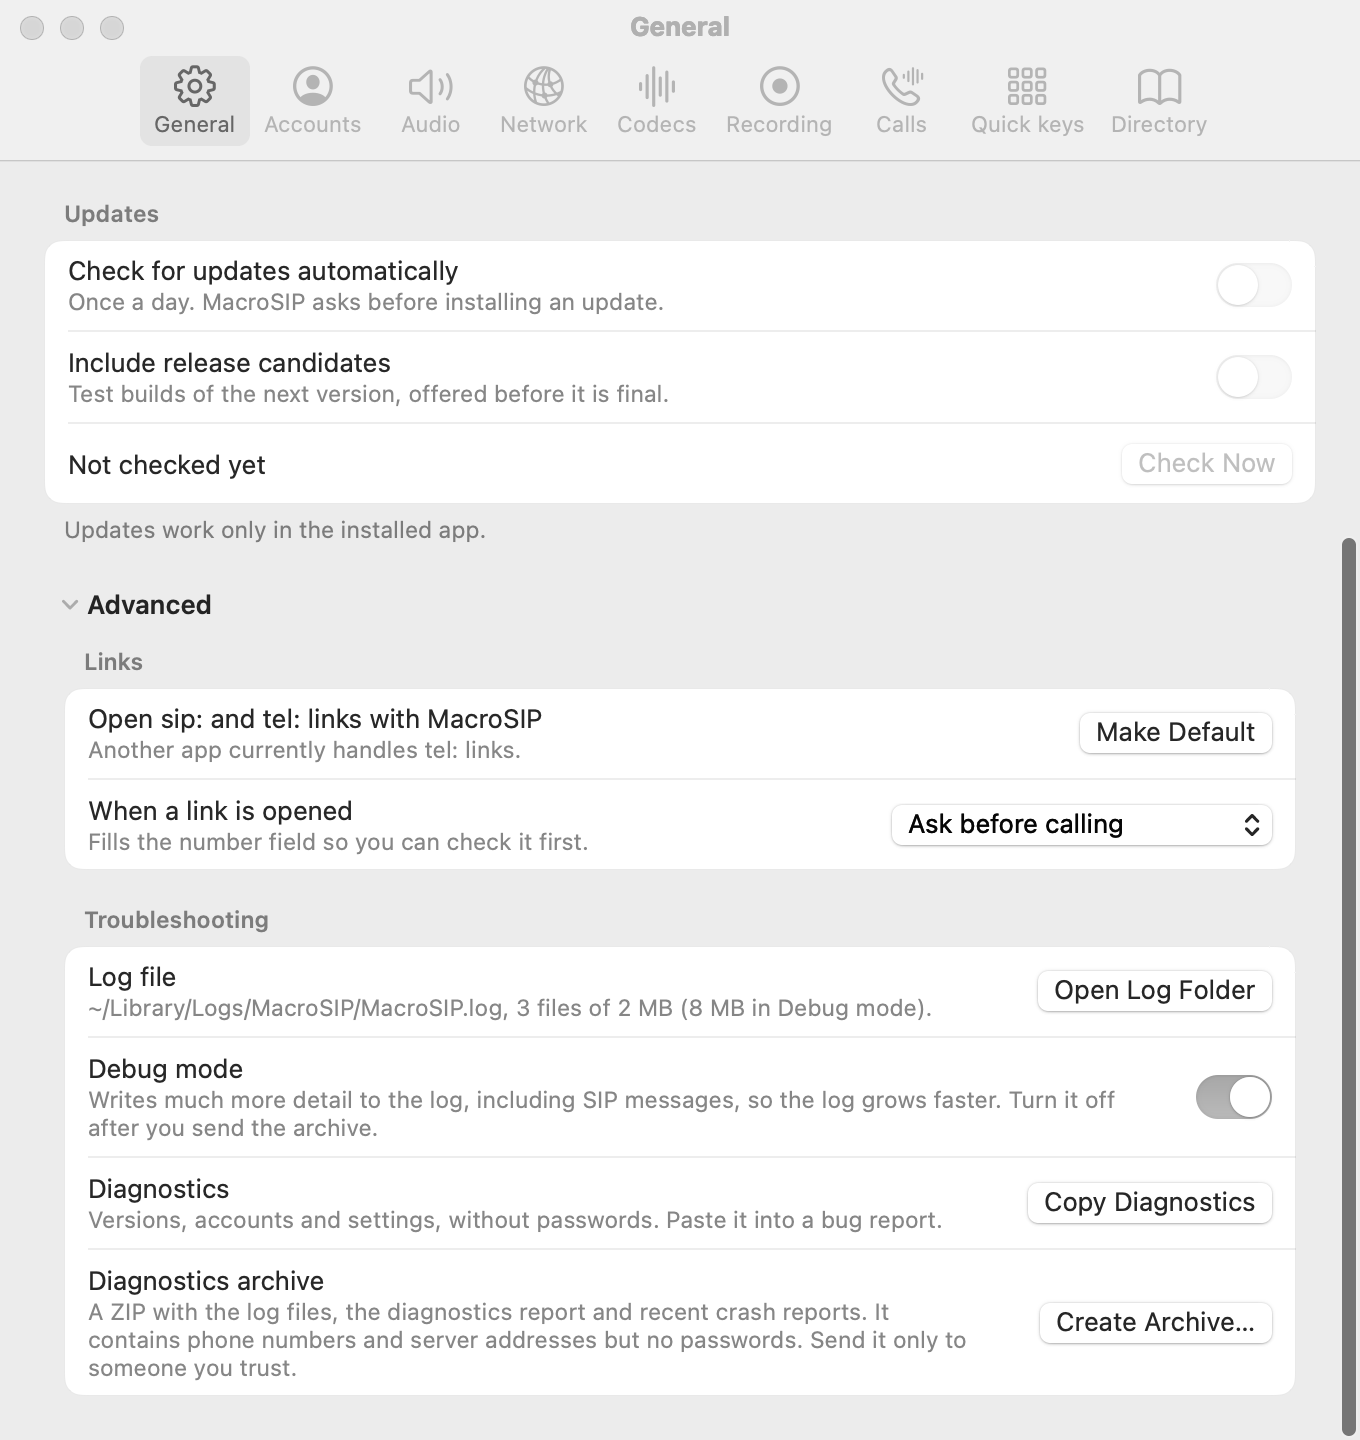
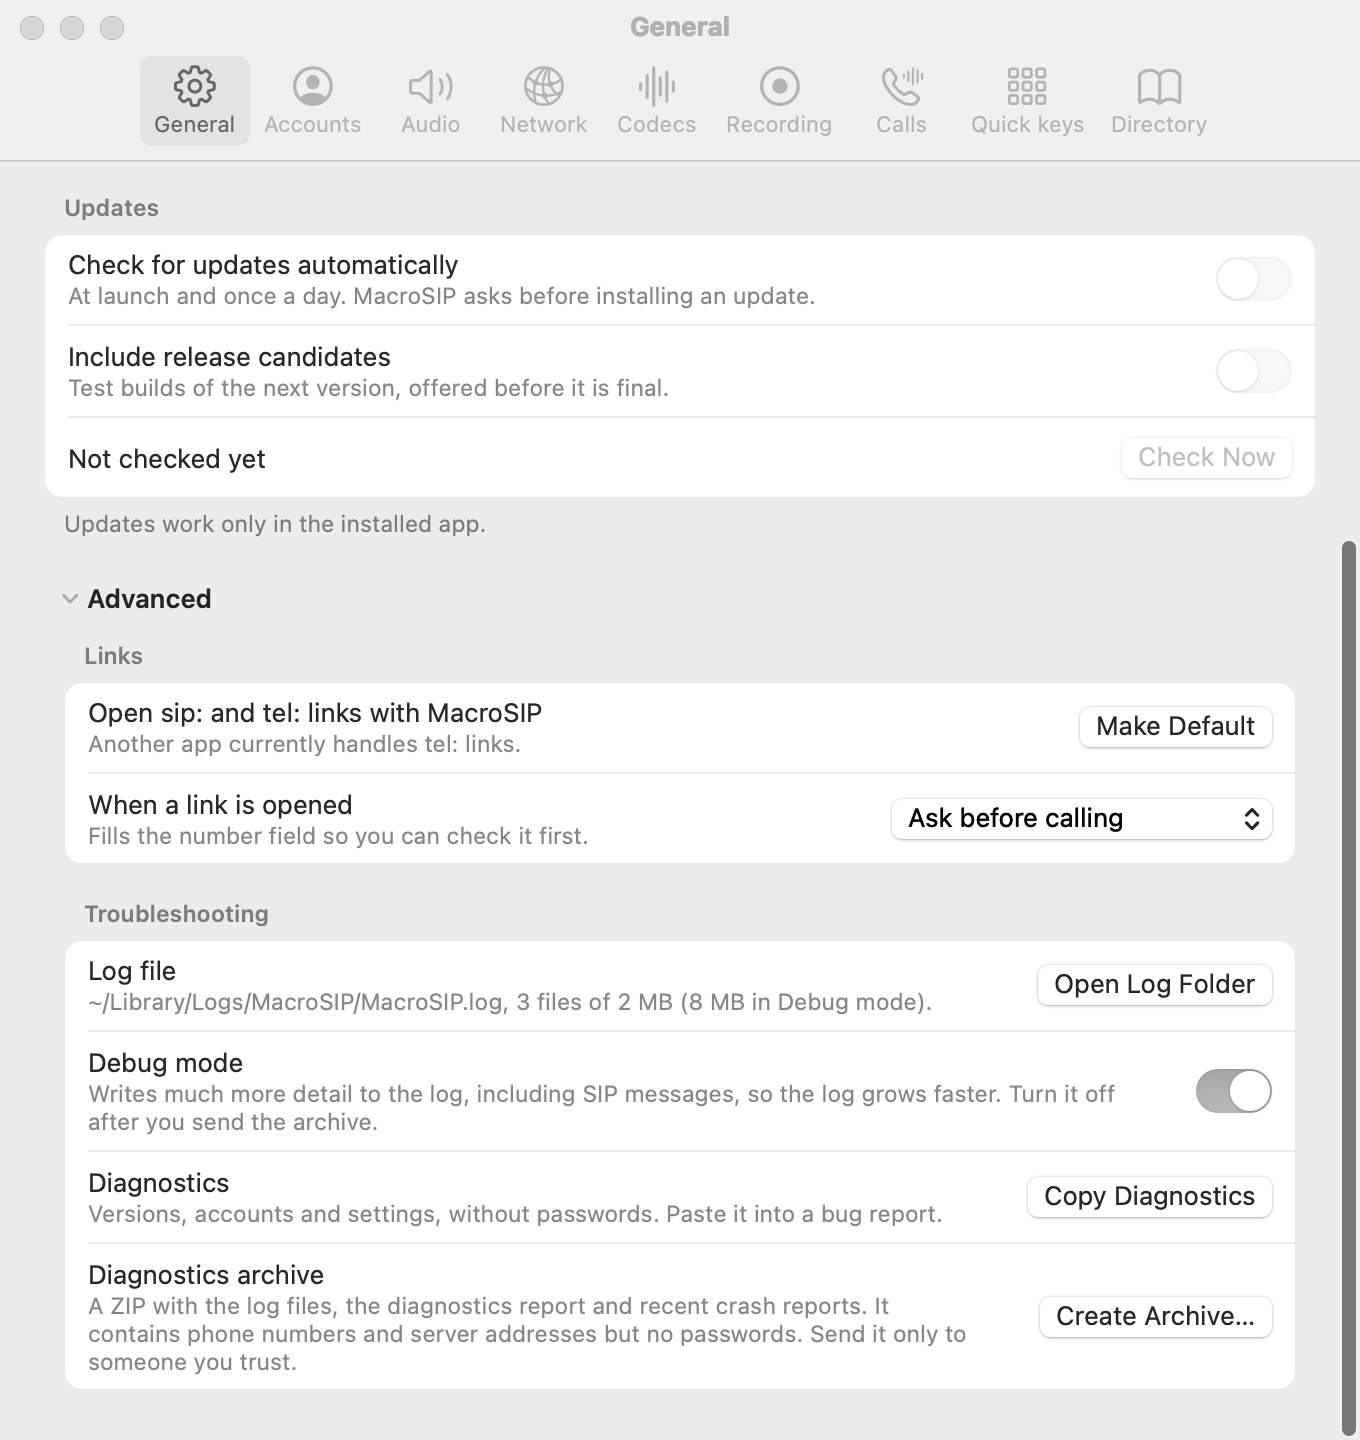
Update check at launch, status bar without the Settings link, settings panes scroll clear of the toolbar
- Updater: with automatic checks on, one background check 8 s after the start;
  Sparkle shows a window only when an update exists and skips the call while a
  session is in progress. The help text says "At launch and once a day".
- The "Settings… ⌘," link in the status bar with no accounts is gone: the gear
  next to it does the same. Screen 10 in SCREENS.md and the mockup follow.
- PaneContainer: a pane that scrolls gets 3 pt more at the end, so the previous
  group's footer no longer sits cut under the toolbar; the Troubleshooting
  screenshots are taken again without that edge.

diff --git a/Sources/MacroSIPApp/Views/Components/FormComponents.swift b/Sources/MacroSIPApp/Views/Components/FormComponents.swift
@@ -67,22 +67,31 @@ struct FormDivider: View {
 }
 
 /// Pane body: grey background, 18 pt top and 22 pt side padding, fixed 680 pt width. The pane is as tall as its
-/// content (measured) up to `maxHeight`, so a 13-inch screen still shows the window whole; taller content scrolls.
+/// content (measured) up to `maxHeight`, so a 13-inch screen still shows the window whole; taller content scrolls,
+/// with `scrollEndPadding` more below the last group so the previous group's footer text does not end up cut
+/// by the toolbar's edge at the end of the scroll.
 struct PaneContainer<Content: View>: View {
     var minHeight: CGFloat = 380
     var maxHeight: CGFloat = 640
     @ViewBuilder var content: Content
     @Local private var contentHeight: CGFloat = 0
+    @Local private var scrolls = false
+    private static var scrollEndPadding: CGFloat { 3 }
 
     var body: some View {
         ScrollView(.vertical) {
             VStack(alignment: .leading, spacing: 18) { content }
-                .padding(.top, 18).padding(.bottom, 22).padding(.horizontal, 22)
+                .padding(.top, 18).padding(.bottom, 22 + (scrolls ? Self.scrollEndPadding : 0)).padding(.horizontal, 22)
                 .frame(width: 680, alignment: .topLeading)
                 .background(GeometryReader { Color.clear.preference(key: PaneHeightKey.self, value: $0.size.height) })
         }
         .scrollBounceBehavior(.basedOnSize)
-        .onPreferenceChange(PaneHeightKey.self) { h in MainActor.assumeIsolated { contentHeight = h } }
+        .onPreferenceChange(PaneHeightKey.self) { h in
+            MainActor.assumeIsolated {
+                contentHeight = h
+                scrolls = h - (scrolls ? Self.scrollEndPadding : 0) > maxHeight
+            }
+        }
         .frame(width: 680, height: paneHeight)
         .background(Theme.groupBackground)
         .background(FitWindowToPane(height: paneHeight))

diff --git a/Sources/MacroSIPApp/Platform/Updater.swift b/Sources/MacroSIPApp/Platform/Updater.swift
@@ -71,6 +71,23 @@ final class Updater: NSObject {
             self?.callsChanged(busy: busy)
         }
         AppLog.app.info("updates: updater started, automatic checks \(updater.automaticallyChecksForUpdates ? "on" : "off"), release candidates \(includeReleaseCandidates ? "on" : "off")")
+        checkAtLaunch(delay: Self.launchCheckDelay)
+    }
+
+    /// Seconds after the start before the check at launch, so it does not compete with the engine start.
+    private static let launchCheckDelay: Duration = .seconds(8)
+
+    /// Check at launch: with "Check for updates automatically" on, one background check shortly after the start
+    /// (`checkForUpdatesInBackground`: no window unless an update exists; a found update during a call waits for the
+    /// calls to end, see the user driver delegate). Sparkle's own daily schedule is untouched. The call does nothing
+    /// while a session is in progress, so it cannot overlap Sparkle's own check at start or a check the user began.
+    private func checkAtLaunch(delay: Duration) {
+        Task { @MainActor [weak self] in
+            try? await Task.sleep(for: delay)
+            guard let updater = self?.controller?.updater, updater.automaticallyChecksForUpdates, !updater.sessionInProgress else { return }
+            AppLog.app.info("updates: check at launch")
+            updater.checkForUpdatesInBackground()
+        }
     }
 
     /// "Check for Updates…" and "Check Now": Sparkle shows its own progress and result windows.

diff --git a/Sources/MacroSIPApp/Model/Strings.swift b/Sources/MacroSIPApp/Model/Strings.swift
@@ -535,7 +535,7 @@ enum L {
     static var updatesMenuCheck: String { loc("updates.menu.check", "Check for Updates…") }
     static var updatesHeader: String { loc("updates.header", "Updates") }
     static var updatesAutomatic: String { loc("updates.automatic", "Check for updates automatically") }
-    static var updatesAutomaticHelp: String { loc("updates.automatic.help", "Once a day. MacroSIP asks before installing an update.") }
+    static var updatesAutomaticHelp: String { loc("updates.automatic.help", "At launch and once a day. MacroSIP asks before installing an update.") }
     static var updatesReleaseCandidates: String { loc("updates.releaseCandidates", "Include release candidates") }
     static var updatesReleaseCandidatesHelp: String { loc("updates.releaseCandidates.help", "Test builds of the next version, offered before it is final.") }
     static var updatesCheckNow: String { loc("updates.checkNow", "Check Now") }

diff --git a/docs/design/mockups.html b/docs/design/mockups.html
@@ -1814,7 +1814,7 @@ kbd{font:11px var(--font-mono);border:1px solid var(--line);border-bottom-width:
             <span class="btn primary" style="padding:5px 16px;margin-top:4px" data-go="account">Add Account…</span>
             <span style="font-size:11.5px;color:var(--m-label2);margin-top:6px">Contacts and the call log work without an account.</span>
           </div>
-          <div class="statusbar"><span class="acc"><span class="dot off"></span>No accounts</span><span class="right">Settings… ⌘,</span></div>
+          <div class="statusbar"><span class="acc"><span class="dot off"></span>No accounts</span><span class="right" title="Show Quick Keys"><svg class="i" style="width:12px;height:12px"><use href="#i-keygrid"/></svg></span><span class="right" title="Settings…"><svg class="i" style="width:12px;height:12px"><use href="#i-gear"/></svg></span></div>
         </div>
       </div>
       <div>

diff --git a/Sources/MacroSIPApp/Views/Main/MainWindowView.swift b/Sources/MacroSIPApp/Views/Main/MainWindowView.swift
@@ -126,10 +126,6 @@ struct StatusBar: View {
                     Text(model.accounts.isEmpty ? L.statusNoAccounts : L.statusNoneEnabled)
                 }
                 Spacer(minLength: 0)
-                Button { model.openSettings(tab: .accounts) } label: {
-                    Text("\(L.menuSettings) ⌘,")
-                }
-                .buttonStyle(.plain)
             } else if !model.networkOnline {
                 HStack(spacing: 5) {
                     Image(systemName: "wifi.slash").font(.system(size: 10))

diff --git a/docs/DEVELOPMENT.md b/docs/DEVELOPMENT.md
@@ -67,7 +67,7 @@ Built on an Apple Silicon Mac; the x86_64 half is cross-compiled (ADR 0012).
 - **About**: standard panel (`AboutPanel` in `Platform/AppInfo.swift`), reached from MacroSIP › About MacroSIP. Version is `Product.version`, build is `CFBundleVersion`; the copyright and credits are fixed strings.
 - **App icon**: `swift scripts/make-icon.swift` draws the icon (source of truth: `packaging/AppIcon.svg`, a dial pad whose pressed keys trace an M on a green gradient) into `packaging/AppIcon.icns` and `AppIcon-1024.png`; run `swift scripts/make-icon.swift` after changing the artwork.
 - **DMG**: `scripts/make-dmg.sh [release]` builds the app and writes `dist/MacroSIP-<version>.dmg` (universal; volume "MacroSIP", Applications symlink, ad-hoc signed, no notarization).
-- **Updates** (ADR 0013): Sparkle 2.7.3 (SwiftPM binary XCFramework, pinned exactly). `Platform/Updater.swift` wraps `SPUStandardUpdaterController`; it starts in `applicationDidFinishLaunching` except for `--mock-engine`, demo launches and a binary outside an .app (`swift run`), where Settings › General › Updates is disabled with a note. `make-app.sh` copies `Sparkle.framework` into `Contents/Frameworks`, signs its XPC services, `Autoupdate`, `Updater.app` and the framework before the app, and writes `SUFeedURL` (`https://raw.githubusercontent.com/HSMM/MacroSIP/gh-pages/appcast.xml`), `SUPublicEDKey`, `SUEnableAutomaticChecks` and `SUScheduledCheckInterval` (24 h) into Info.plist. Release candidates are appcast items on the `beta` channel; the "Include release candidates" toggle (UserDefaults `updates.includeReleaseCandidates`) decides `allowedChannels`. Sparkle's tools (`generate_keys`, `generate_appcast`, `sign_update`) are in `.build/artifacts/sparkle/Sparkle/bin` after `swift build`.
+- **Updates** (ADR 0013): Sparkle 2.7.3 (SwiftPM binary XCFramework, pinned exactly). `Platform/Updater.swift` wraps `SPUStandardUpdaterController`; it starts in `applicationDidFinishLaunching` except for `--mock-engine`, demo launches and a binary outside an .app (`swift run`), where Settings › General › Updates is disabled with a note. `make-app.sh` copies `Sparkle.framework` into `Contents/Frameworks`, signs its XPC services, `Autoupdate`, `Updater.app` and the framework before the app, and writes `SUFeedURL` (`https://raw.githubusercontent.com/HSMM/MacroSIP/gh-pages/appcast.xml`), `SUPublicEDKey`, `SUEnableAutomaticChecks` and `SUScheduledCheckInterval` (24 h) into Info.plist. With "Check for updates automatically" on, `Updater.checkAtLaunch` also runs `checkForUpdatesInBackground()` 8 s after the start (no window unless an update exists; Sparkle ignores it while a session is in progress), besides Sparkle's own daily schedule. Release candidates are appcast items on the `beta` channel; the "Include release candidates" toggle (UserDefaults `updates.includeReleaseCandidates`) decides `allowedChannels`. Sparkle's tools (`generate_keys`, `generate_appcast`, `sign_update`) are in `.build/artifacts/sparkle/Sparkle/bin` after `swift build`.
 - **CI**: `.github/workflows/ci.yml` (push and PR to main). Job `build` on `macos-15` (arm64): `build-pjsip.sh` with `third_party/pjsip` and `third_party/deps` cached (key: hash of the script and `config_site.h`), build, tests, selftest natively and the x86_64 slice under Rosetta 2, universal release app as artifact. Job `intel` on `macos-15-intel` (x86_64) takes the universal libraries and the app from `build`, launches the app for 15 s, and runs `swift build`, `scripts/test.sh` and `scripts/selftest-call.sh` natively. `release.yml` runs on tags `[0-9]*.[0-9]*.[0-9]*` and builds the same universal DMG on arm64 (with the Rosetta selftest).
 
 - **Headset buttons** (USB/HID call control): `Platform/HeadsetButtons.swift` watches HID devices through `IOHIDManager` (`import IOKit.hid`): top-level collections on the Telephony page (0x0B: Headset 0x05, Telephony 0x01, Handset 0x04) and Consumer Control devices (0x0C/0x01) that carry Telephony elements (a keyboard's media keys and the 3.5 mm jack's "Headset" have none and are ignored). The manager only enumerates; each telephony device is opened on its own (`IOHIDDeviceOpen`), so no keyboard-class device is touched. A Telephony-page collection opens without a prompt; a device that exposes its telephony controls only inside a Consumer Control collection may be refused by macOS (Input Monitoring): the failure is logged (`headset buttons: cannot open ...`) and the device ignored. That case has not been tested on real hardware. Input usages: Hook Switch 0x0B/0x20, Flash 0x21, Hold 0x23, Redial 0x24, Drop 0x26, Phone Mute 0x2F; `HeadsetReportDecoder` (pure, no IOKit) turns them into `HeadsetEvent`s. The hook switch comes as a level (1 off-hook, 0 on-hook; "no preferred state" in the descriptor) or as a momentary button ("preferred state"); a switch that releases within 300 ms is treated as a button from then on, and so is one whose release arrives within 1 s of the call its off-hook answered (`HeadsetButtons.callAnswered` from `AppModel+Headset.swift`), so a long first press cannot answer and hang up in one go. `AppModel+Headset.swift` maps them: off-hook or a hook press answers the ringing call (the active one goes on hold), on-hook ends the active call, a hook press with no call ringing hangs up the current one, Flash answers the waiting call or swaps the held one in, Phone Mute toggles the current call's microphone, Redial calls the last outgoing number when no call exists. The LEDs Off-Hook (0x08/0x17), Ring (0x08/0x18) and Mute (0x08/0x09) are written as output reports when the device has them, from `afterCallsChanged` (`syncHeadsetIndicators`), so the headset follows the call state and level-type devices reset their hook after a remote hang-up. IOKit callbacks run on the controller's private queue; events and the device name hop to the main actor. `AppModel.headsetButtonsEnabled` (default on, `setHeadsetButtonsEnabled(_:)` starts and stops the controller) and `headsetButtonsDevice` (name of the connected device, nil when none, for the UI) are the API for Settings. Hot-plug is logged (`headset buttons: <name> connected, hook button|switch, controls ...`, `... disconnected`) in the `app` category. Demo launches never open IOKit; `HeadsetButtons.simulate(_:)` (DEBUG) injects events and `--demo-state selftest` checks the decoder, answer/hang-up/mute/redial and the LED state through it. Out of scope: Bluetooth headsets whose buttons speak HFP (AT commands) rather than HID; macOS handles those itself and they do not appear as HID telephony devices.

diff --git a/docs/design/SCREENS.md b/docs/design/SCREENS.md
@@ -1245,7 +1245,7 @@ Screen 10. Main window with no accounts.
 |---|---|---|
 | 1 | Common frame | Account pop-up button reads "No account" (dimmed). Number field disabled. Tabs enabled. |
 | 2 | Empty-state body | Centred column, 398 pt high, 24 pt padding. |
-| 3 | Status bar | "No accounts" with a grey hollow dot, and "Settings… ⌘," at right. |
+| 3 | Status bar | "No accounts" with a grey hollow dot; at right the Quick Keys and Settings buttons, as in every status bar (no text link). |
 
 ### Empty-state body
 
@@ -1315,7 +1315,7 @@ Strings marked "(proposed)" are not in the mockups; they are needed by the spec 
 | | No account | `account.popup.none` | Pop-up button label when there are no accounts; dimmed. |
 | | No accounts | `status.noAccounts` | Status bar. |
 | | %@: %@ | `status.account.failed` | Account name, short reason; red. |
-| | Settings… | `menu.settings` | Shown in status bar in first launch as "Settings… ⌘,". |
+| | Settings… | `menu.settings` | Menu bar item, the Settings button tooltip in the status bar and the Quick keys panel. |
 | | Show %@ | `menu.showApp` | Menu bar item; %@ app name. |
 | | Quit %@ | `menu.quitApp` | Menu bar item; %@ app name. |
 | | %1$lld of %2$lld online | `status.summary` | Status bar summary (4+ enabled accounts). |
